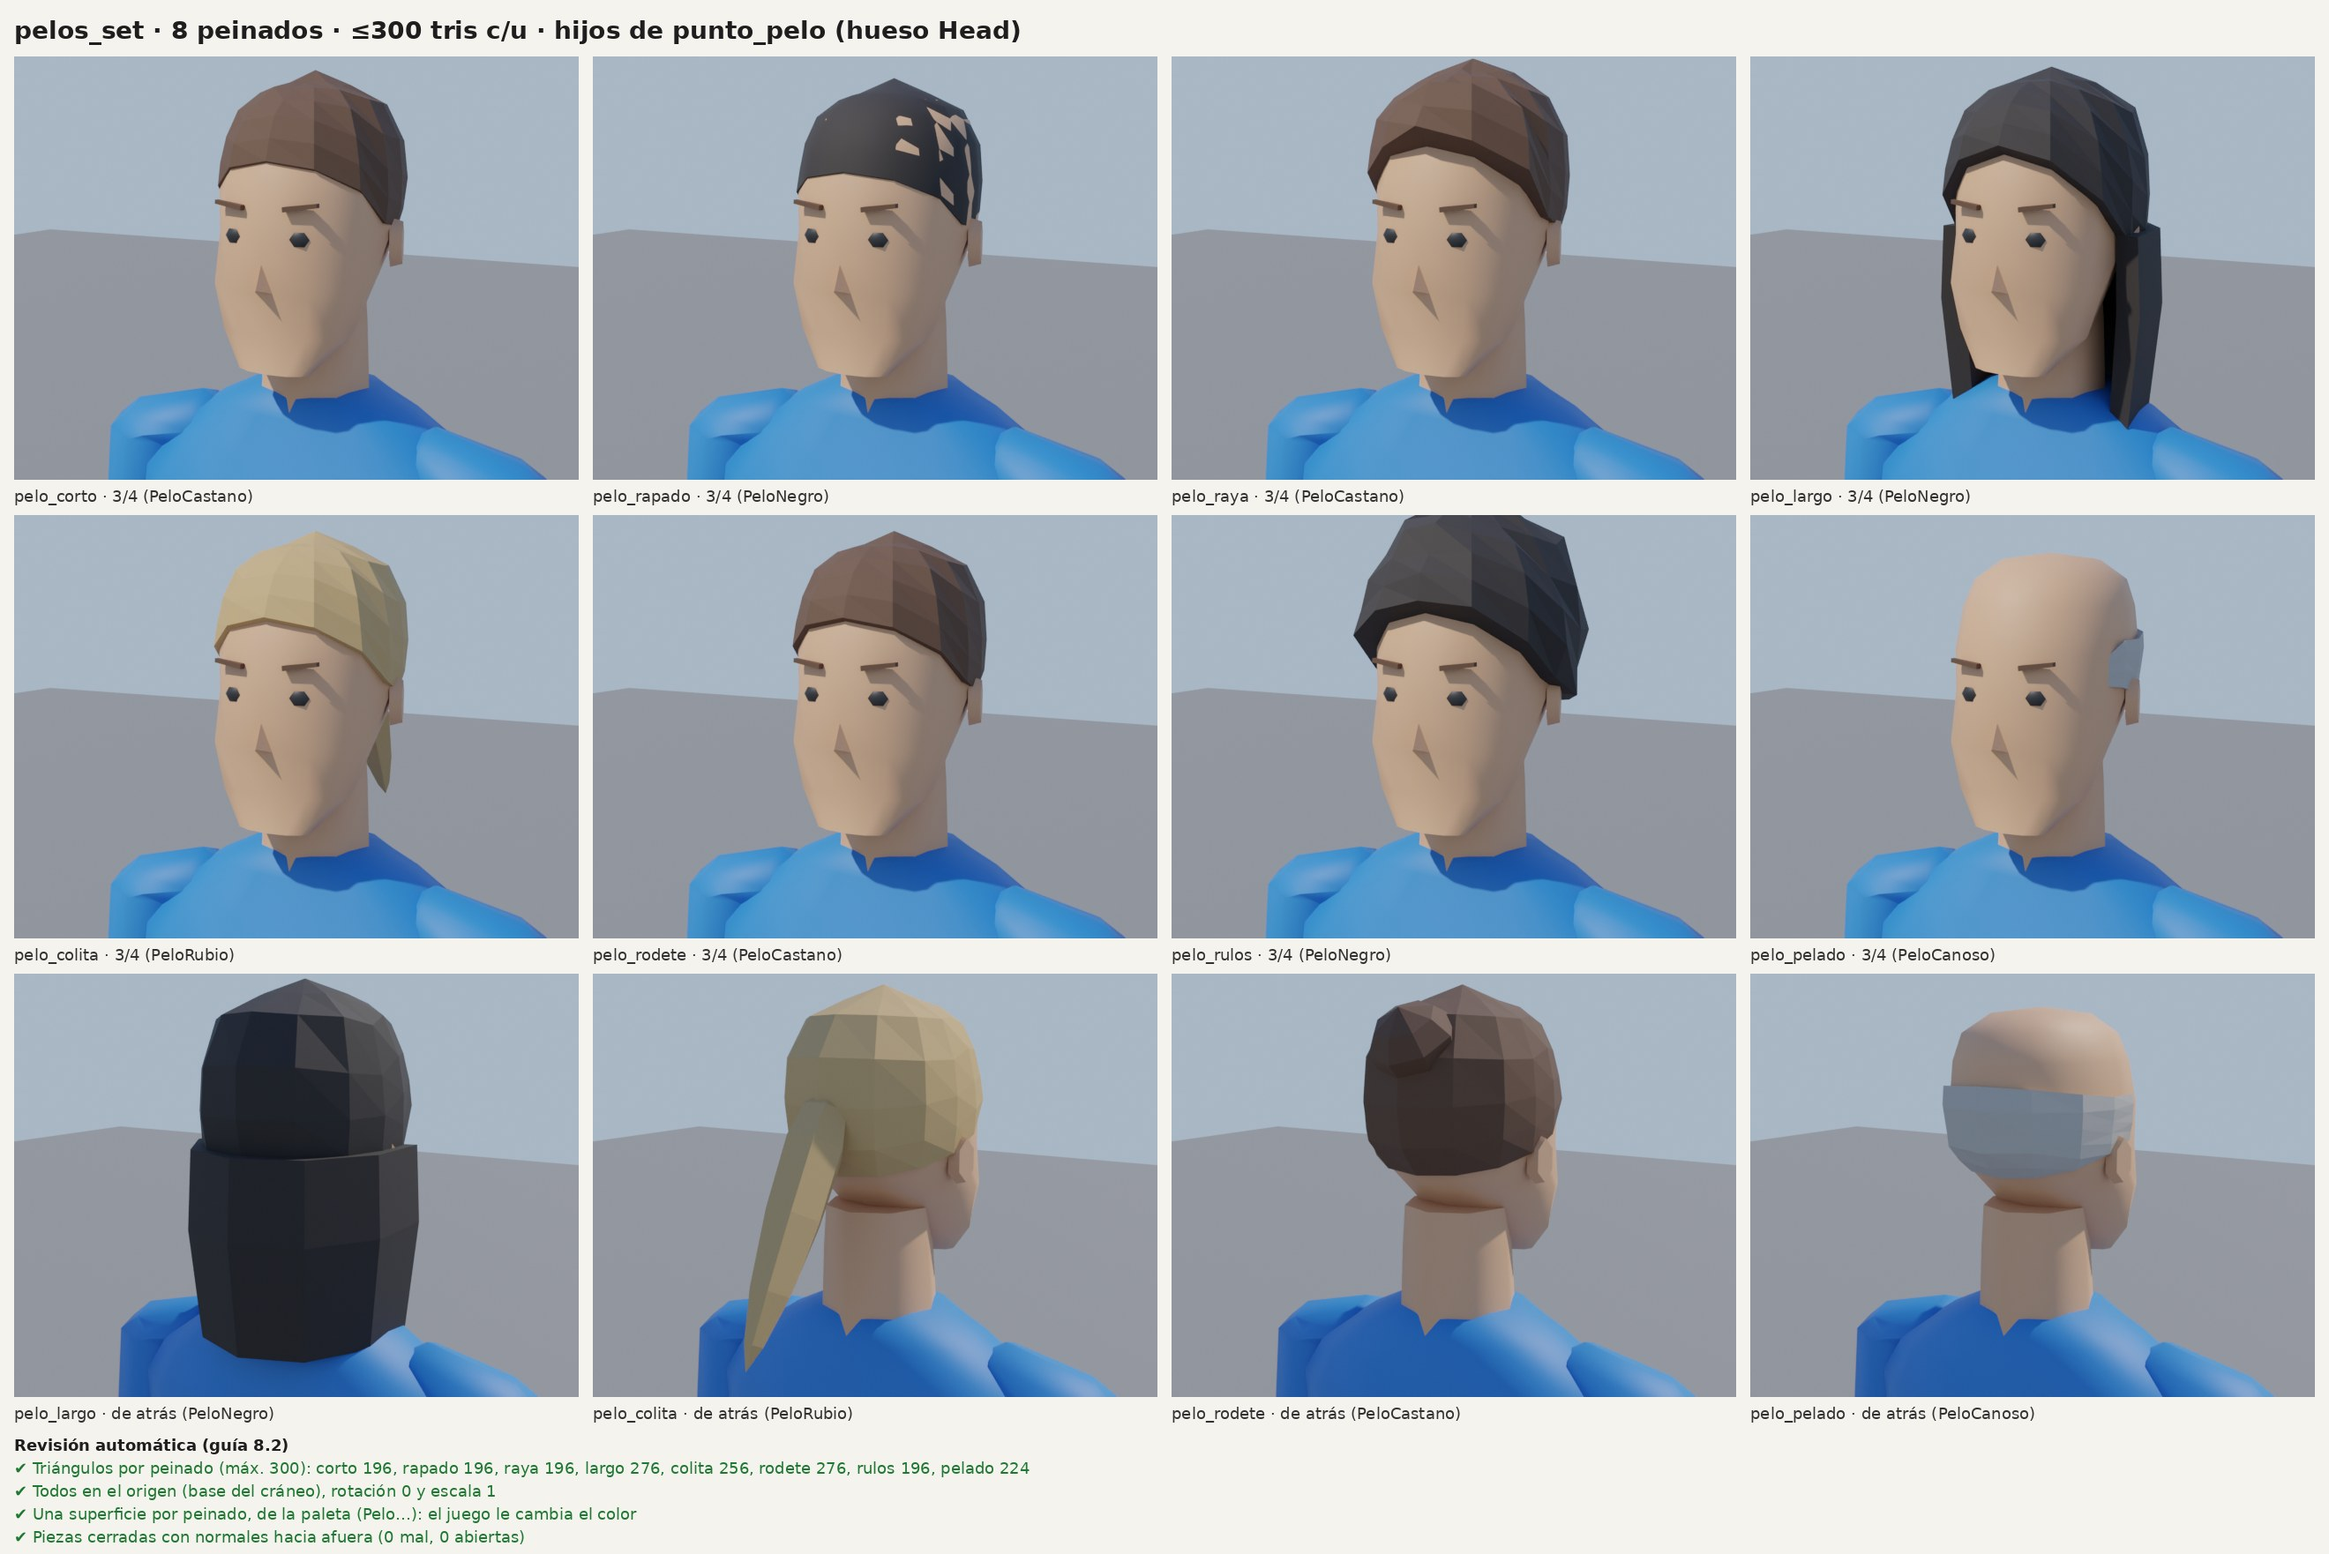
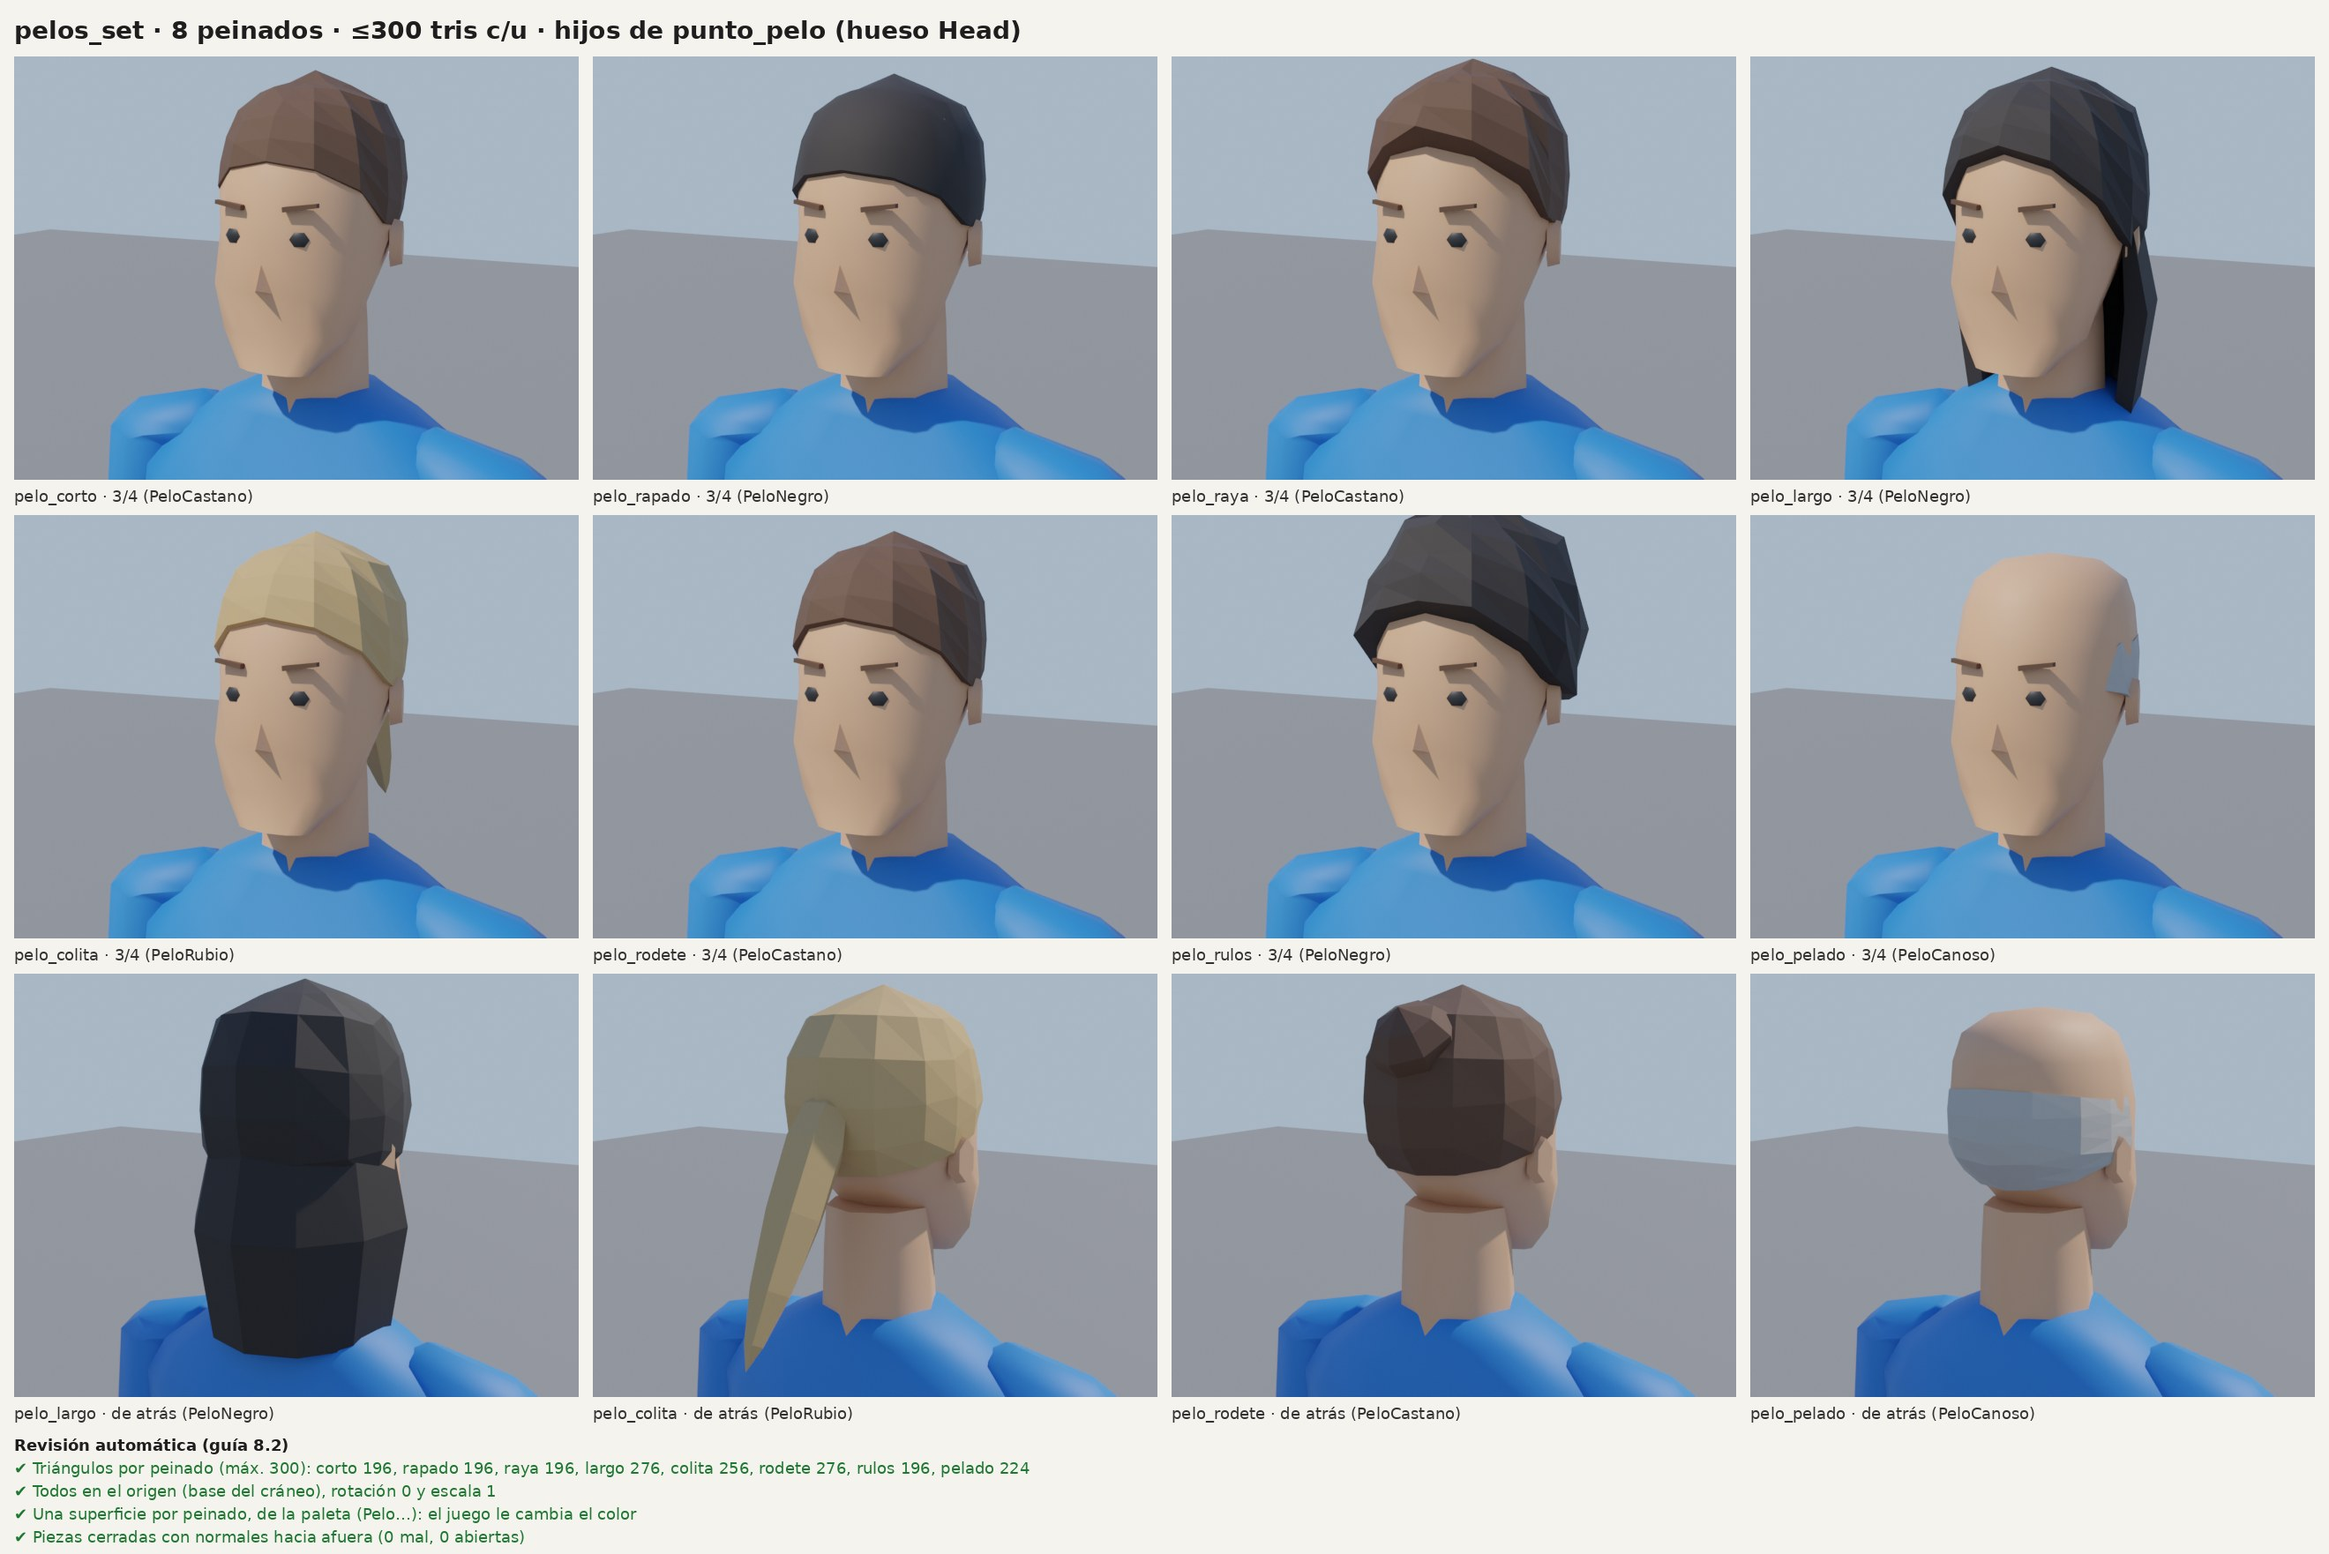
Modelos en progreso
Claude-Session: https://claude.ai/code/session_01HjM8QSzeKUircBU4mCxhsR

diff --git a/tools/blender/modelos/banqueta.py b/tools/blender/modelos/banqueta.py
@@ -53,6 +53,34 @@ def r_pata(y):
     return PATA_ABAJO_R + (PATA_ARRIBA_R - PATA_ABAJO_R) * y / y1
 
 
+def aro(bm, lados=6, tramos=8):
+    """Aro apoyapié: octógono horizontal que pasa por el centro de las patas a ARO_Y, caño de
+    `lados` lados. Cada anillo se arma con la vertical (Y) y la dirección radial, que en un
+    aro horizontal nunca se alinean con el caño: así todos los anillos giran igual. (Con
+    a5.tubo, que toma una referencia fija, los anillos de ±Z se aplastaban en un punto y los
+    de al lado quedaban dados vuelta: eran las puntitas al lado de las patas.) En cada
+    quiebre el anillo se estira 1/cos(22,5°) hacia afuera (inglete), para no afinarse."""
+    ra = r_pata(ARO_Y)
+    estirar = 1 / math.cos(math.pi / tramos)
+    previas = set(bm.faces)
+    anillos, eje = [], []
+    for i in range(tramos):
+        a = 2 * math.pi * i / tramos
+        radial = (math.cos(a), 0.0, math.sin(a))
+        c = (ra * radial[0], ARO_Y, ra * radial[2])
+        eje.append(piezas.g2b(c))
+        anillo = []
+        for k in range(lados):
+            t = 2 * math.pi * k / lados
+            dy, dr = ARO_R * math.cos(t), ARO_R * math.sin(t) * estirar
+            anillo.append(bm.verts.new(piezas.g2b((c[0] + dr * radial[0], c[1] + dy, c[2] + dr * radial[2]))))
+        anillos.append(anillo)
+    for a, b in zip(anillos, anillos[1:] + anillos[:1]):
+        for k in range(lados):
+            bm.faces.new((a[k], a[(k + 1) % lados], b[(k + 1) % lados], b[k])).material_index = 0
+    a5._hacia_afuera([f for f in bm.faces if f not in previas], eje + eje[:1])
+
+
 def construir():
     pintura, acero, goma = comun.cargar_materiales("M_PinturaCarrito", "M_Acero", "M_Goma")
     # Asiento: disco con el canto redondeado (16 lados, guía 3.2), la tapa de abajo se ve.
@@ -71,10 +99,7 @@ def construir():
         a = math.pi / 4 + k * math.pi / 2
         pts = [(r_pata(y) * math.cos(a), y, r_pata(y) * math.sin(a)) for y in (0.0, REGATON, y1)]
         a5.poste(bm, pts, PATA_R, PATA_LADOS, mats=[1, 0])
-    # Aro apoyapié: pasa por el centro de las patas a ARO_Y.
-    ra = r_pata(ARO_Y)
-    pts = [(ra * math.cos(a), ARO_Y, ra * math.sin(a)) for a in (2 * math.pi * i / 8 for i in range(8))]
-    a5.tubo(bm, pts, ARO_R, 6, mat=0, cerrado=True)
+    aro(bm)
     cuerpo = piezas.terminar(f"{ID}_cuerpo", bm, [acero, goma])
     a5.e2.suavizar_hasta(cuerpo, 46)   # patas y aro de 8 lados: redondos, no facetados
 

diff --git a/tools/blender/modelos/_persona.py b/tools/blender/modelos/_persona.py
@@ -873,7 +873,7 @@ def pelo(estilo, material, nombre=None):
             esconder = 0.0
             if "coronilla" in E:     # pelado: corona de pelo solo a los costados y atrás
                 esconder = suave((front(a) - 0.62) / 0.16)   # adelante: queda adentro de la cabeza
-                tope = E["coronilla"] + 0.25 * esconder
+                tope = E["coronilla"] + 0.25 * esconder - 0.30 * (1 - front(a)) ** 1.5   # herradura
                 phi = tope + (phi_max - tope) * (j - 1) / (filas - 1)
             d = V((math.sin(phi) * math.sin(a), -math.sin(phi) * math.cos(a), math.cos(phi)))
             p = _superficie(bvh, centro, d)

diff --git a/tools/blender/modelos/paraguas.py b/tools/blender/modelos/paraguas.py
@@ -188,7 +188,7 @@ def hoja_revision(c, tl, revision):
     alto = 0.5 + R  # para las fotos: apoyado con el borde a la altura justa sobre el piso
     for o in (c, tl, rayada, lisa):
         o.location.z = alto
-    # Con la persona: el puño en la mano, a 1,20 m, un poco adelante y al costado.
+    # Con la persona: el puño en la mano, a 1,32 m, un poco adelante y al costado.
     c2 = e2.copiar(c, "ref_cuerpo_persona")
     t2 = e2.copiar(tl, "ref_tela_persona")
     for o in (c2, t2):
